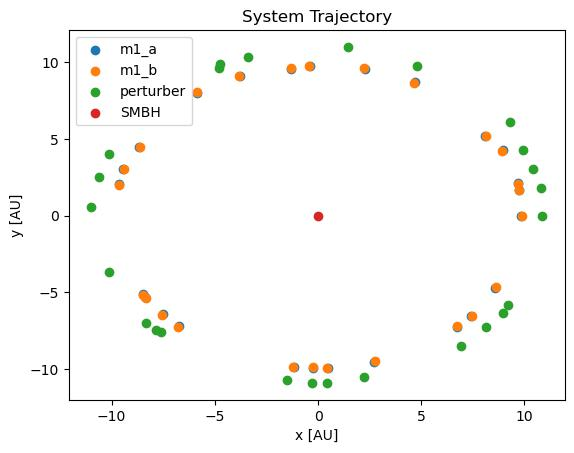
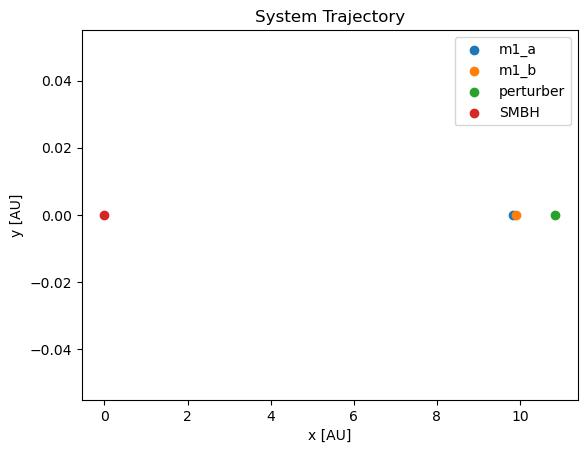
Added friction force

diff --git a/Tools.py b/Tools.py
@@ -12,6 +12,7 @@ c = constants.c.to("AU/yr").value
 def create_simulation():
     sim = rebound.Simulation()
     sim.units = ["Msun", "yr", "AU"]
+
     return sim
 
 
@@ -71,7 +72,7 @@ def get_BBH_data(m1, m2, a, e = 0, M = 0, inc = 0):
 #SMBH_a in units of Gravitational Radii, binary_separation in units of m1 Hill radii, perturber_a in units of m1+m2 Hill radii
 #Returns w - for calculating mergers between m1 and m2
 #Each particle is hashed with a name useful for other functions - i.e. see period calculation functions
-def populate_simulation(sim, m_SMBH = m0, m_BH_1 = m1_a, m_BH_2 = m1_b, m_perturber = m2, binary_separation = 0.1, binary_eccentricity = 0, binary_M = 0, binary_inc = 0, SMBH_a = 1000, SMBH_eccentricity = 0, SMBH_M = 0, SMBH_inc = 0, perturber_a = 20, perturber_e = 0, perturber_M = 0, perturber_inc = 0, randomize_M = False):
+def populate_simulation(sim, binary_separation = 0.1, binary_eccentricity = 0, binary_M = 0, binary_inc = 0, SMBH_a = 1000, SMBH_eccentricity = 0, SMBH_M = 0, SMBH_inc = 0, perturber_a = 20, perturber_e = 0, perturber_M = 0, perturber_inc = 0, randomize_M = False):
 
     #Calculate Gravitational Radius and convert units of SMBH_a
     Rg = sim.G * m0 / c ** 2
@@ -82,32 +83,34 @@ def populate_simulation(sim, m_SMBH = m0, m_BH_1 = m1_a, m_BH_2 = m1_b, m_pertur
     perturber_factor = (1 + (perturber_a/2) * mass_factor) / (1 - (perturber_a/2) * mass_factor)
     perturber_a = SMBH_a * perturber_factor
 
+    #print(2 * np.power(3 * m_SMBH / (m_BH_1 + m_BH_2 + m_perturber), 1 / 3) * (perturber_a - SMBH_a) / (perturber_a + SMBH_a))
+
     #If randomized mean anamolies are wanted, generate three numbers 0-2pi and set mean anamolies
     if randomize_M:
         SMBH_M, binary_M, perturber_M = 2 * np.pi * np.random.rand(3)
 
     #Add the SMBH to the sim
-    sim.add(m = m_SMBH, hash = "SMBH")
+    sim.add(m = m0, hash = "SMBH")
 
     #Get position, velocity, and Hill radius of binary's COM
-    binary_COM_position, binary_COM_velocity, m1_R_hill = get_binary_COM_data(m_SMBH, m_BH_1 + m_BH_2, SMBH_a, e = SMBH_eccentricity, M = SMBH_M, inc = SMBH_inc)
+    binary_COM_position, binary_COM_velocity, m1_R_hill = get_binary_COM_data(m0, m1_a + m1_b, SMBH_a, e = SMBH_eccentricity, M = SMBH_M, inc = SMBH_inc)
 
     #Change units of binary_separation
     binary_separation *= m1_R_hill
 
     #Get data of BHs in binary (in binary COM F.O.R.)
-    BH_1_data, BH_2_data = get_BBH_data(m_BH_1, m_BH_2, binary_separation, e = binary_eccentricity, M = binary_M, inc = binary_inc)
+    BH_1_data, BH_2_data = get_BBH_data(m1_a, m1_b, binary_separation, e = binary_eccentricity, M = binary_M, inc = binary_inc)
 
     #Unpack BBH data
     BH_1_position, BH_1_velocity = BH_1_data
     BH_2_position, BH_2_velocity = BH_2_data
 
     #Create particles for BBHs
-    BH_1 = rebound.Particle(m = m_BH_1, hash = "BBH_1")
+    BH_1 = rebound.Particle(m = m1_a, hash = "BBH_1")
     BH_1.xyz = BH_1_position + binary_COM_position
     BH_1.vxyz = BH_1_velocity + binary_COM_velocity
 
-    BH_2 = rebound.Particle(m = m_BH_2, hash = "BBH_2")
+    BH_2 = rebound.Particle(m = m1_b, hash = "BBH_2")
     BH_2.xyz = BH_2_position + binary_COM_position
     BH_2.vxyz = BH_2_velocity + binary_COM_velocity
 
@@ -116,13 +119,13 @@ def populate_simulation(sim, m_SMBH = m0, m_BH_1 = m1_a, m_BH_2 = m1_b, m_pertur
     sim.add(BH_2)
 
     #Add perturber into sim
-    sim.add(primary = sim.particles["SMBH"], m = m_perturber, a = perturber_a, e = perturber_e, M = perturber_M, inc = perturber_inc, hash = "perturber")
+    sim.add(primary = sim.particles["SMBH"], m = m2, a = perturber_a, e = perturber_e, M = perturber_M, inc = perturber_inc, hash = "perturber")
 
     #Move to COM frame of simulation
     sim.move_to_com()
 
-    return np.sqrt(sim.G * m_SMBH/ SMBH_a) - np.sqrt(sim.G * m_SMBH / perturber_a) + np.sqrt(
-        sim.G * (m_BH_1 + m_BH_2) / (binary_separation ** 3)) * binary_separation * (m_BH_2/(m_BH_1+m_BH_2))
+    return np.sqrt(sim.G * m0 / SMBH_a) - np.sqrt(sim.G * m0 / perturber_a) + np.sqrt(
+        sim.G * (m1_a + m1_b) / (binary_separation ** 3)) * binary_separation * (m1_b/(m1_a+m1_b))
 
 
 def barycenter(p1, p2):

diff --git a/Simulation.py b/Simulation.py
@@ -7,12 +7,23 @@ binary_separation = 0.3
 
 #####################################################################################
 
+def migration_force(reb_sim):
+    sim.particles["perturber"].ax -= sim.particles["perturber"].vx/tau
+    sim.particles["perturber"].ay -= sim.particles["perturber"].vy/tau
+    sim.particles["perturber"].az -= sim.particles["perturber"].vz/tau
+
+#####################################################################################
+
 sim = create_simulation()
 
 w = populate_simulation(sim, perturber_a = perturber_a, binary_separation = binary_separation)
 
 binary_period, SMBH_period = get_binary_period(sim), get_SMBH_period(sim)
 sim.dt = 0.05 * binary_period
+
+tau = 1000.
+sim.additional_forces = migration_force
+sim.force_is_velocity_dependent = 1
 
 #####################################################################################
 
@@ -31,7 +42,6 @@ m1_a_helio_xs, m1_a_helio_ys = [], []
 m1_b_helio_xs, m1_b_helio_ys = [], []
 
 perturber_m1a_distance, perturber_m1b_distance = [], []
-
 
 #####################################################################################
 
@@ -151,8 +161,9 @@ while sim.t <= 10**5 * SMBH_period:
     check_binary_bound(sim, outcome_record)
     #---------------Check for Collisions------------------------------------------#
     check_for_collisions(sim, w, outcome_record)
+    # ----------------------------------------------------------------------------#
 
-    sim.steps(1)
+    sim.step()
     total_time_steps_completed += 1
 
 outcome_record["Result"] = "Ended with no mergers and bound binary"
